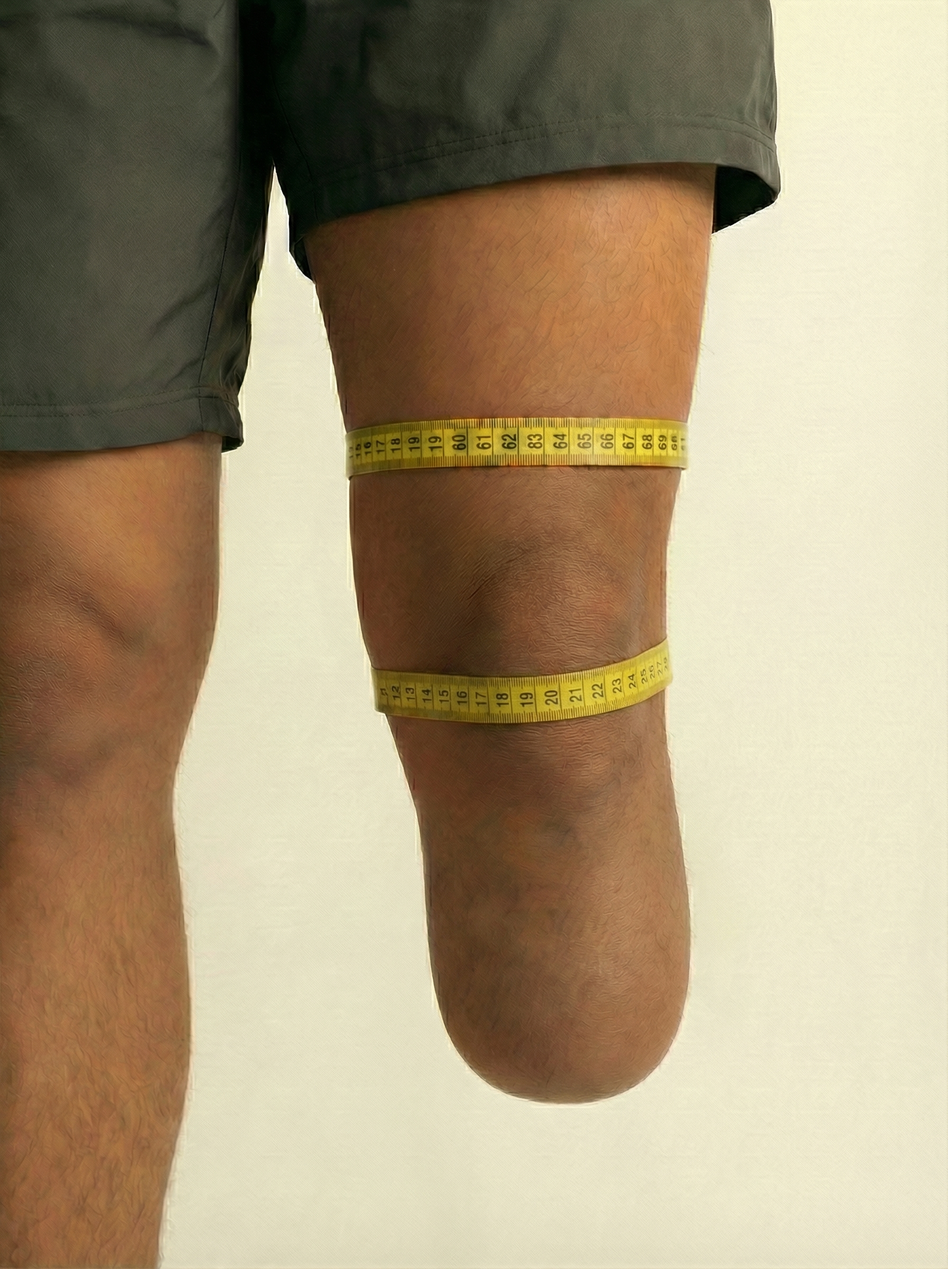
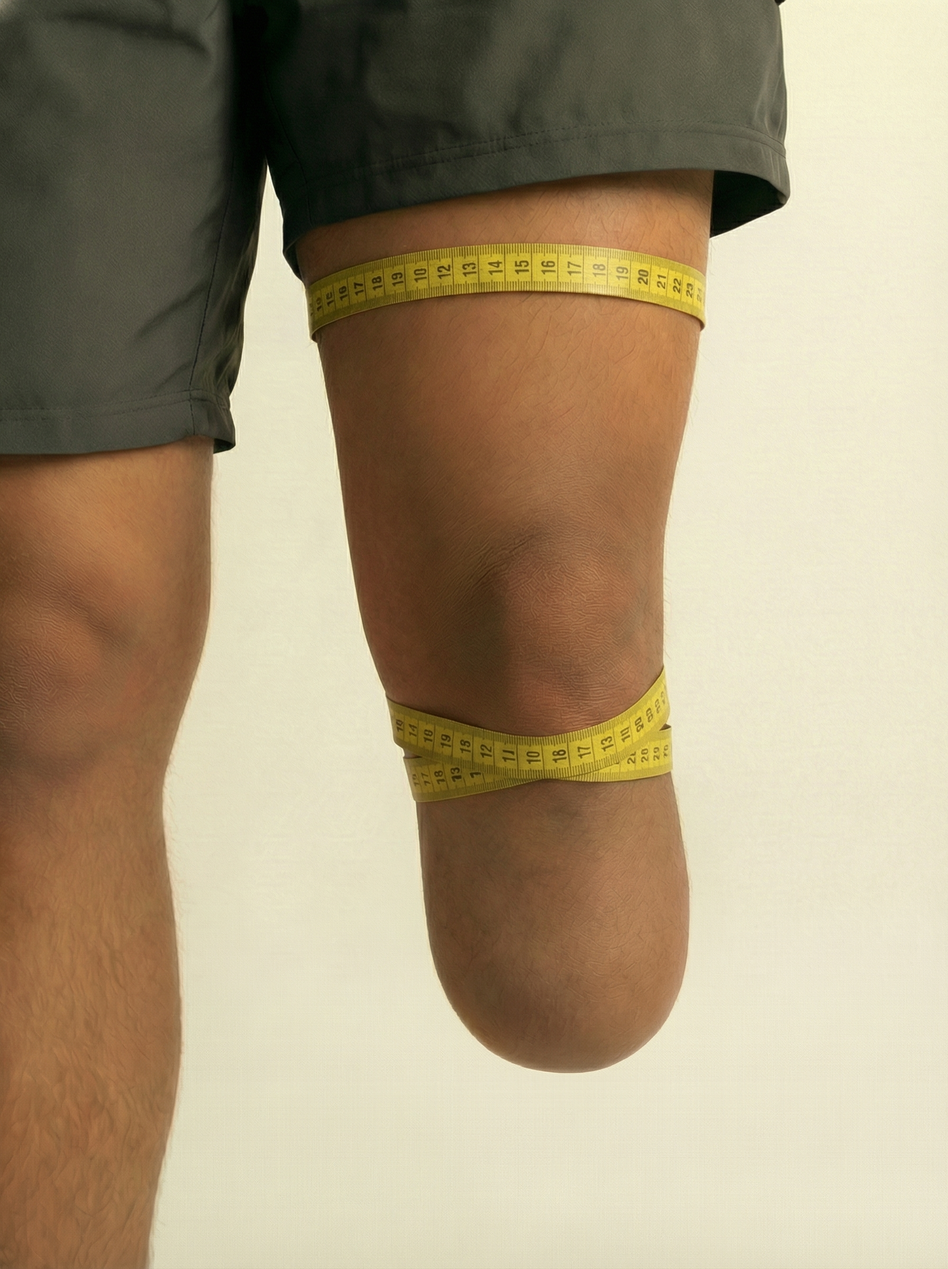
Fix sleeve image: upper tape higher on thigh, right below shorts

diff --git a/src/data/linerSizingData.js b/src/data/linerSizingData.js
@@ -189,7 +189,7 @@ export const SIZING_CHARTS = {
       distal: 'Mid-Knee Cap',
       proximalDesc: '8 in (20 cm) above kneecap',
       distalDesc: 'Around middle of kneecap',
-      proximalTop: 30,
+      proximalTop: 25,
       distalTop: 50,
     },
     measurementPoints: [
